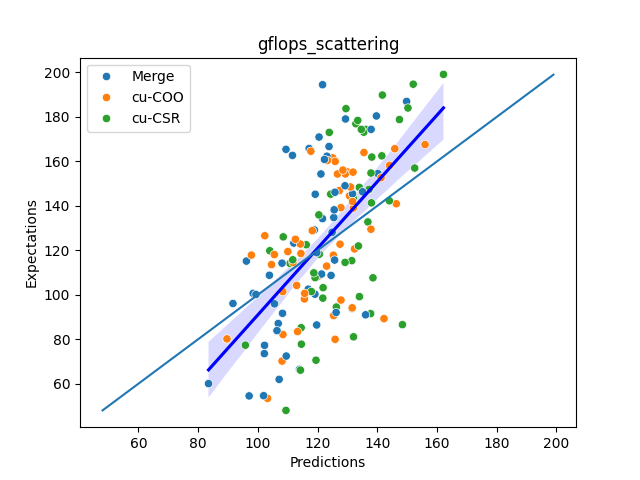
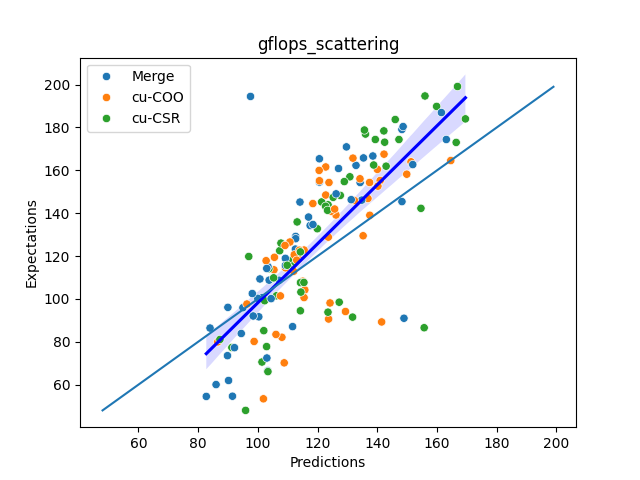
WE GO BUNKERS

diff --git a/Performance_predictors/model_runners.py b/Performance_predictors/model_runners.py
@@ -114,12 +114,16 @@ def predict_mlp(model, input, scaler_gflops:preprocessing.MinMaxScaler, scaler_e
     # print("Loss : {}".format(loss(prediction, expected)))
     # print("Loss % : {}".format(utils_func.MAPELoss(prediction, expected)))
     return prediction
-def run_svr(kernel, C, epsilon, gamma, csv_path):
+def run_svr(kernel, C, epsilon, gamma, csv_path, system):
     dataset = dataReader.SparseMatrixDataset(csv_path)
 
-    svr_model = SVR_model.SvrPredictor(kernel, C, epsilon, gamma)
+    svr_model = SVR_model.SvrPredictor(kernel, C, epsilon, gamma,)
     # SVR_model.train_SVR_Nystroem(svr_model, dataset)
-    SVR_model.train_LinearSVR(svr_model, dataset)
+    # SVR_model.train_LinearSVR(svr_model, dataset)
+    SVR_model.train_usualSVR(svr_model, dataset)
+    #Saving the last model
+    saved_model_path = MODEL_PATH + "{}/svr".format(system)
+    torch.save(svr_model.state_dict(), saved_model_path)
     return svr_model 
 
 def load_mlp_model(activation_fn, 

diff --git a/Performance_predictors/main.py b/Performance_predictors/main.py
@@ -69,7 +69,8 @@ if __name__ == "__main__":
                         SVR_globals.C,
                         SVR_globals.epsilon,
                         SVR_globals.gamma,
-                        csv_path)
+                        csv_path,
+                        system_used)
         csv_path_validation = g.DATA_PATH + "/validation/all_format/all_format_{}.csv".format(system_used)
         validation_dataset = dataReader.SparseMatrixDataset(csv_path_validation)
         

diff --git a/Performance_predictors/SVR/model.py b/Performance_predictors/SVR/model.py
@@ -27,7 +27,7 @@ class SvrPredictor(torch.nn.Module):
         self.usualSVR = SVR(kernel=kernel, gamma=gamma, C=C, epsilon=epsilon, verbose=True)
     
     def forward(self, x):
-        return self.linearSVR.predict(x)
+        return self.usualSVR.predict(x)
 
 def train_SVR_Nystroem(model:SvrPredictor, dataset):
     X = dataset[:][0].numpy()
